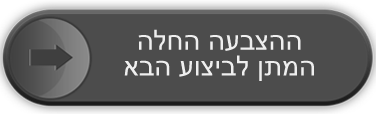
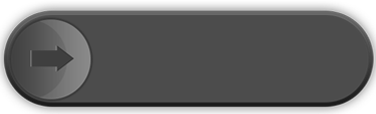
navigation.js

diff --git a/js/vote.js b/js/vote.js
@@ -7,7 +7,7 @@ function setVotePage(data) {
     var firstFields;
     var secondFields;
 
-    if (isRegistered) {
+    if (generalParameters.isRegistered) {
         $("#vote .reMesseg .continue").hide();
         if (data.votes.length == 2) {
             isSingleVote = false;
@@ -52,7 +52,8 @@ function setVotePage(data) {
         }
     }
     else { //if not registered
-        $("#not-registered").show();
+        setOpenRegisterPage(data);
+        Navi.goto("notRegister");        
     }
 
 
@@ -61,49 +62,52 @@ function setVotePage(data) {
 //vote close
 
 function setVoteClosePage(data) {
-    console.log("setVoteClosePage data.status: " + data.status);
+    //if registered
+    if (generalParameters.isRegistered) {
+        console.log("setVoteClosePage data.status: " + data.status);
 
-    //set the dictionary text
-    $("#vote-close-dic").text(resultsDic);
+        //set the dictionary text
+        $("#vote-close-dic").text(resultsDic);
 
-    var isSingleVote;
-    var firstFields;
-    var secondFields;
-    if (data.votes.length == 2) {
-        isSingleVote = false;
-    }
-    else if (data.votes.length == 1) {
-        isSingleVote = true;
-    }
+        var isSingleVote;
+        var firstFields;
+        var secondFields;
+        if (data.votes.length == 2) {
+            isSingleVote = false;
+        }
+        else if (data.votes.length == 1) {
+            isSingleVote = true;
+        }
 
-    if (isSingleVote) {
-        firstFields = getFielsdByVote(data.votes[0]);
-        $("#vote-close-img-single").css("background-image", "url('" + firstFields[2] + "')")
-        $("#vote-close-comp-name-single").text(firstFields[0]);
-        $("#vote-close-song-name-single").text(firstFields[1]);
+        if (isSingleVote) {
+            firstFields = getFielsdByVote(data.votes[0]);
+            $("#vote-close-img-single").css("background-image", "url('" + firstFields[2] + "')")
+            $("#vote-close-comp-name-single").text(firstFields[0]);
+            $("#vote-close-song-name-single").text(firstFields[1]);
 
-        //wait text
-        $("#vote-close-wait-text-single").text(data.textWaitCalc);
+            //wait text
+            $("#vote-close-wait-text-single").text(data.textWaitCalc);
 
-        //navigate
-        Navi.goto("voteCloseSingle");
-    }
-    else if (!isSingleVote) {
-        firstFields = getFielsdByVote(data.votes[0]);
-        secondFields = getFielsdByVote(data.votes[1]);
-        //firat comp
-        $("#vote-close-img-first").css("background-image", "url('" + firstFields[2] + "')")
-        $("#vote-close-comp-name-first").text(firstFields[0]);
-        $("#vote-close-song-name-first").text(firstFields[1]);
-        //second comp
-        $("#vote-close-img-second").css("background-image", "url('" + secondFields[2] + "')")
-        $("#vote-close-comp-name-second").text(secondFields[0]);
-        $("#vote-close-song-name-second").text(secondFields[1]);
+            //navigate
+            Navi.goto("voteCloseSingle");
+        }
+        else if (!isSingleVote) {
+            firstFields = getFielsdByVote(data.votes[0]);
+            secondFields = getFielsdByVote(data.votes[1]);
+            //firat comp
+            $("#vote-close-img-first").css("background-image", "url('" + firstFields[2] + "')")
+            $("#vote-close-comp-name-first").text(firstFields[0]);
+            $("#vote-close-song-name-first").text(firstFields[1]);
+            //second comp
+            $("#vote-close-img-second").css("background-image", "url('" + secondFields[2] + "')")
+            $("#vote-close-comp-name-second").text(secondFields[0]);
+            $("#vote-close-song-name-second").text(secondFields[1]);
 
-        //wait text
-        $("#vote-close-wait-text-battle").text(data.textWaitCalc);
-        //navigate
-        Navi.goto("voteCloseBattle");
+            //wait text
+            $("#vote-close-wait-text-battle").text(data.textWaitCalc);
+            //navigate
+            Navi.goto("voteCloseBattle");
+        }
     }
 }
 

diff --git a/js/navigation.js b/js/navigation.js
@@ -9,23 +9,65 @@ var Navi = {
 
     goto: function (el) {
         switch (el) {
-            case 'messageNoImage':
+            case 'login1':
+                //
+                break;
+            case 'login2':
+                //
+                break;
+            case 'messageWaitingNoImage':
+                Navi.hidelogin();
                 $('header').show();
-                $('#login').hide();
+                $('#message').show();
+                $('#message .messageImage').hide();
+                $('#message .messageNoImage').show();
+                $('#message .messageNoImage .continue').show();
+                break;
+            case 'messageWaitingWithImage':
+                Navi.hidelogin();
+                $('header').show();
+                $('#message').show();
+                $('#message .messageImage').show();
+                $('#message .messageImage .continue').show();
+                $('#message .messageNoImage').hide();
+                break;
+            case 'messageNoImage':
+                Navi.hidelogin();
+                $('header').show();
+                $(".continue").hide();
                 $('#message').show();
                 $('#message .messageImage').hide();
                 $('#message .messageNoImage').show();
                 break;
             case 'messageWithImage':
+                Navi.hidelogin();
                 $('header').show();
-                $('#login').hide();
+                $(".continue").hide();
                 $('#message').show();
                 $('#message .messageImage').show();
                 $('#message .messageNoImage').hide();
                 break;
-            case 'register':
+            // 
+            case 'registerSingle':
                 Navi.hidelogin();
                 $('#register').show();
+                if($(".slidein ").hasClass('grey')){
+                    $(".slidein ").removeClass('grey');
+                };
+                $("#registerSingle").show();
+                $("#registerBattle").hide();
+                break;
+            case 'registerBattle':
+                Navi.hidelogin();
+                $('#register').show();
+                if($(".slidein ").hasClass('grey')){
+                    $(".slidein ").removeClass('grey');
+                };
+                $("#registerSingle").hide();
+                $("#registerBattle").show();
+                break;
+            case 'notRegister':
+                $(".slidein ").addClass('grey');
                 break;
             case 'voteSingle':
                 Navi.hidelogin();
@@ -71,8 +113,7 @@ var Navi = {
                 gallerySize();
                 break;
             default:
-                $('section,header').hide();
-                $('#login').show();
+                Navi.hidelogin();
         }
     }
 

diff --git a/index.html b/index.html
@@ -65,7 +65,7 @@
         <!---log in section-->
 		
         <section id="message">
-            <div class="nextPage" data-goto="register"></div>
+            <div class="nextPage" data-goto="registerSingle"></div>
             <div class="messageImage">
                 <figure id="message-with-img-img" class="team"></figure>
                 <div class="message">
@@ -131,7 +131,7 @@
 					</div>
 				</div>
 			</div>
-			<div id="registerBattle">
+			<div id="registerBattle" class="cf">
 				<div class="slidein">
 					<div class="slide btn"></div>
 					<div class="slider-text">כניסה להצבעה</div>
@@ -513,9 +513,9 @@
 			<div class="goodbyeBox">
 				<div id="download-music"><span class="icon"></span><span id="download-music-text">להורדת הביצועים</span></div>
 				<div class="logFb"><span class="icon"></span><span class="logFb-text">התחברו עם פייסבוק כדי לזכות בפרסים</span></div>
-				<div class="checkboxArea">						
+				<div class="checkboxArea">						י
 					<input type="checkbox" id="checkbox3" name="cc" />
-					<label for="checkbox3"><span></span>רוצה שתמונת הפרופיל שלי תופיע בטלוויזיה </label>
+					<label for="checkbox3"><span></span>אני רוצה שתמונת הפרופיל שלי תופיע בטלוויזיה </label>
 				</div>
 			</div>
             <div class="musix"></div>

diff --git a/js/serverRequest.js b/js/serverRequest.js
@@ -1,15 +1,15 @@
 
-/////************long polling- get status - change the pages******************/
-////var domain = "http://192.168.2.108:8080/nextStarQA/json?";
-////var domain = "http://192.168.2.108:8080/nextStarQA/userjson?type=getStatus";
-////var domain = 'http://makosrv1.egoline.co.il/nextStar/userjson?';
-//var domain = "http://makosrv1.egoline.co.il/nextStarTestA/userjson?";
-//function longPolling() {
-//    pollController = new PollController();
-//    pollController._setUrl(domain+"type=getStatus");
-//    pollController._setCallBackFunction(function (data) {
-//        console.log(data);
-//        pageChange(data);
-//    });
-//    pollController._init();
-//} 
+///************long polling- get status - change the pages******************/
+//var domain = "http://192.168.2.108:8080/nextStarQA/json?";
+//var domain = "http://192.168.2.108:8080/nextStarQA/userjson?type=getStatus";
+//var domain = 'http://makosrv1.egoline.co.il/nextStar/userjson?';
+var domain = "http://makosrv1.egoline.co.il/nextStarTestB/userjson?";
+function longPolling() {
+    pollController = new PollController();
+    pollController._setUrl(domain+"type=getStatus");
+    pollController._setCallBackFunction(function (data) {
+        console.log(data);
+        pageChange(data);
+    });
+    pollController._init();
+} 

diff --git a/js/register.js b/js/register.js
@@ -1,12 +1,12 @@
 var voteIdA, voteKeyA, voteIdB, voteKeyB;
-var isRegistered;
+//var isRegistered;
 
 function attachEventsRegister() {
     $(".slidein .btn").on("click", setRegister); //click on slider
 }
 
 function setOpenRegisterPage(data) {
-    isRegistered = false;
+    generalParameters.isRegistered = false;
     //console.log("data.status: " + data.status);
     //take the value from dictionary
     $("#register-dic").text(registerDic);
@@ -30,14 +30,15 @@ function setOpenRegisterPage(data) {
         $("#register-comp-name-single").text(name);
         $("#register-song-name-single").text(song);
         $("#register-wait-text").text(textWait);
+        Navi.goto("registerBattle");
     }
     //if this is a single vote
     else {
 
+        Navi.goto("registerSingle");
     }
 
-    //show register page
-    Navi.goto("register");
+    
 
 }
 
@@ -73,7 +74,7 @@ function setWaitVotePage(data) {
         voteIdB = data[1].voteId;
         voteKeyB = data[1].voteKey;
     }
-    isRegistered = true;
+    generalParameters.isRegistered = true;
    
 
 

diff --git a/css/style.css b/css/style.css
@@ -555,6 +555,7 @@ margin-top: 5%;
     margin-left: auto;
     margin-right: auto;
     text-align: center;
+    display: none;
 }
 
 .continue h2 {
@@ -673,10 +674,16 @@ font-size: 1.5em;
     overflow: hidden;
 }
 
+#registerSingle{
+    display: none;
+}
 #registerSingle .slidein {
     top: 61%;
 }
 
+#registerBattle{
+    display: none;
+}
 #registerBattle .slidein {
     top: 65%;
 }
@@ -697,7 +704,7 @@ font-size: 1.5em;
     top: 62%;
 }
 
-.slidein.grey .btn, .slidein.grey .slider-text {
+.slidein.grey .btn {
     display: none;
 }
 

diff --git a/js/script.js b/js/script.js
@@ -6,10 +6,18 @@ $(document).ready(function () {
     // attachEventsFacebook();
     attachEventsRegister();
     attachEventsVote();
-    //longPolling();
+    longPolling();
 });
 
-
+//general parameters
+var generalParameters={
+    isRegistered:false,//if register to vote
+    voteIdA:null,
+    voteKeyA:null,
+    voteIdB:null,
+    voteKeyB:null,
+    isSingle:null//is the vote is to single or battle
+}
 
 function pageChange(data){
     var status = data.status;
